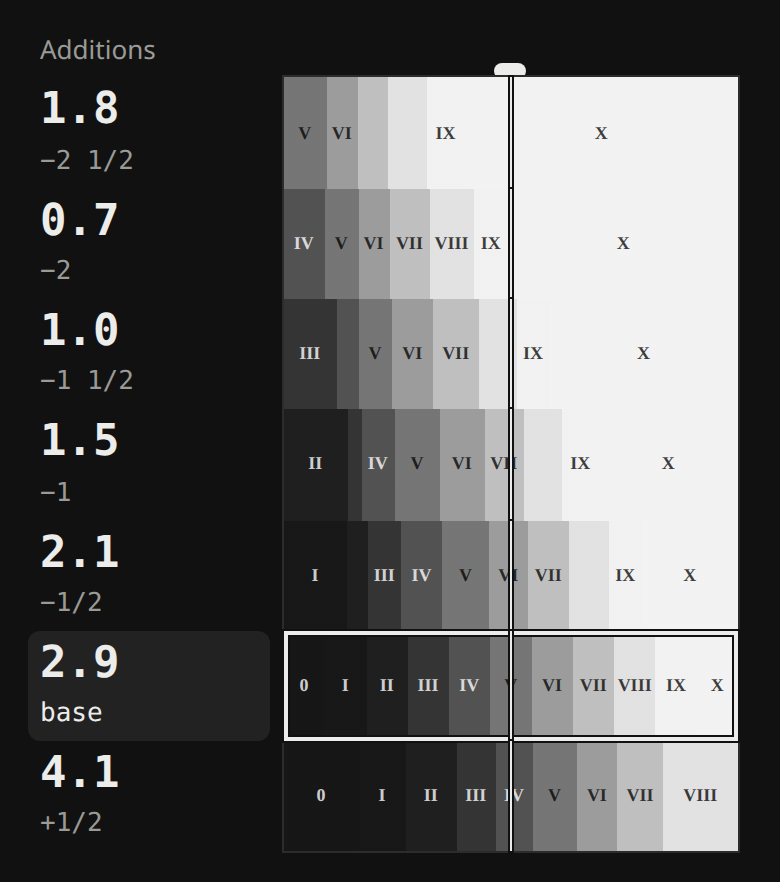
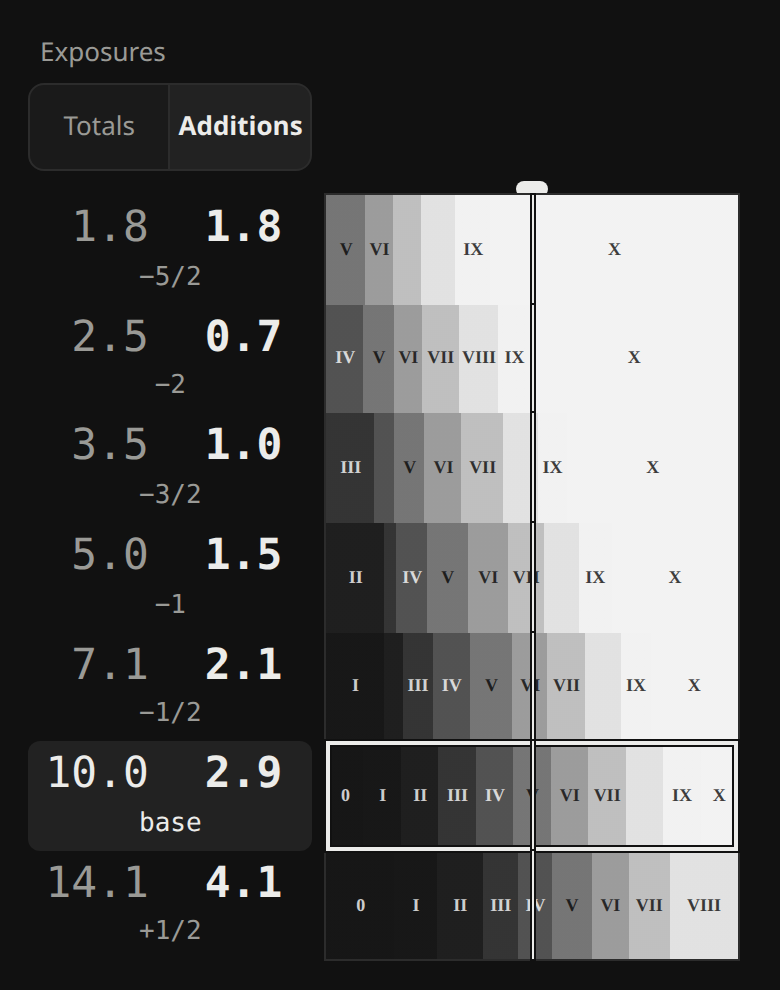
README and figures for the two columns

diff --git a/README.md b/README.md
@@ -18,7 +18,7 @@ A tool for planning f/stop test strips in the darkroom, and for timing them: by 
 Every patch has a strip of tones beside its figure. Each strip shows what that patch prints as, in the zones of the Zone System, and the strips abut, so a tone in the picture can be followed straight up and down the map from patch to patch. Each paper has its own curves, and the filter changes how far apart the patches land, so both are chosen under the map. A second filter can be laid under the first, to see whether a change of contrast would do what more exposure would not. This is for the age-old question, *"should I change the exposure, or is it the contrast?"*
 
 ## Quickstart
-Open https://binflush.github.io/striptest/, type in your base time, and pick the step size and the number of patches. The map gives the seconds for every patch: what each adds to the one before, the way a strip is covered. Press **Run in Darkroom Mode** at the foot of the screen, then **Start**, and the page counts you in and sounds each patch. Tick **Use a metronome instead** and it gives you a tempo and the counts instead. The section **The website** below goes through the rest.
+Open https://binflush.github.io/striptest/, type in your base time, and pick the step size and the number of patches. The map gives the seconds for every patch, what it has had in all and what it adds. Press **Run in Darkroom Mode** at the foot of the screen, then **Start**, and the page counts you in and sounds each patch. Tick **Use a metronome instead** and it gives you a tempo and the counts instead. The section **The website** below goes through the rest.
 
 ## The website
 The website lives at https://binflush.github.io/striptest/. It does the same job as the Python script this started as, and a good deal more, and it does it in your browser, so it also works on the phone in your pocket. Everything is calculated on your own device, and nothing is sent anywhere.
@@ -28,11 +28,11 @@ The easiest way to explain it is to go through a printing session.
 ### The plan
 Let's say we have a fresh negative in the enlarger and our best guess is that it needs somewhere around 10 seconds. We want a test strip of 7 patches in 1/2 stop steps around that guess. So we type 10 into **Base, seconds**, choose 1/2 under **Step, stops** and 7 under **Patches**. These happen to be the defaults, so in this case we just open the page:
 
-<p align="center"><img src="figures/web-plan.png" width="300" align="top" alt="The page as it opens: base 10 seconds, 1/2 stop steps, 7 patches, and the map underneath with the seconds every patch adds"> <img src="figures/web-base.png" width="300" align="top" alt="The sixth patch tapped: the tile and the box have moved to it, and the other patches are drawn against it"></p>
+<p align="center"><img src="figures/web-plan.png" width="300" align="top" alt="The page as it opens: base 10 seconds, 1/2 stop steps, 7 patches, and the map underneath with what every patch has had in all and what it adds"> <img src="figures/web-base.png" width="300" align="top" alt="The sixth patch tapped: the tile and the box have moved to it, and the other patches are drawn against it"></p>
 
-The map has one row for each patch. On the left, large, are the seconds each patch adds to the one before — 3.5 for the first, then 1.5, 2.1, 2.9 and so on — the way a strip is exposed with a card: give the whole strip 3.5 seconds, cover the first patch, give the rest 1.5 more, cover the next, and so on. Under them is where the patch sits in stops, from a stop and a half below the base to a stop and a half above. The base is the patch we believe in, marked with a tile round its figure and a box round its strip. It starts on the middle patch, so the others bracket it; tapping any patch, its figure or its strip, makes that one the base instead, and the others are drawn against it. On the first patch the strip only goes up from there.
+The map has one row for each patch, with two figures side by side. On the left is what the patch has had in all, 3.5, 5.0, 7.1, 10.0 and so on up to 28.3, which is how a strip is read afterwards: the patch that looks right is printed at its total. On the right is what the patch adds to the one before — 3.5 for the first, then 1.5, 2.1, 2.9 and so on — the way a strip is exposed with a card: give the whole strip 3.5 seconds, cover the first patch, give the rest 1.5 more, cover the next, and so on. Under them is where the patch sits in stops, from a stop and a half below the base to a stop and a half above. The base is the patch we believe in, marked with a tile round its figure and a box round its strip. It starts on the middle patch, so the others bracket it; tapping any patch, its figure or its strip, makes that one the base instead, and the others are drawn against it. On the first patch the strip only goes up from there.
 
-Those who expose every patch on its own instead, in a holder with a window, choose **Totals** under **Exposures** in Configuration, and each figure becomes what the patch has had in all: 3.5, 5.0, 7.1, 10.0 and so on up to 28.3, with the heading over them saying so. That is also how a strip is read afterwards: the patch that looks right is printed at its total. With a timer, either figure is all there is to it. The choice is also what a run in the darkroom gives each patch; more on that below.
+The switch over the figures, **Totals** or **Additions**, says which of the two a run in the darkroom gives each patch, and that column is in ink: totals for a strip exposed patch by patch in a holder with a window, additions for a strip covered as it goes. With a timer, either figure is all there is to it; more on the run below.
 
 ### Reading the map
 The strips are a rough simulation of what the patches are going to look like, in the zones of the Zone System: 0 is full black, V is middle grey and X is paper white. The base patch's strip is simply the scale from 0 to X, and every other strip is that same scale after the patch's exposure. A place across the map is one part of the picture. So we pick a tone in the base row, say a highlight in Zone VIII, and look straight up and down: the zone we find at that same place in another row is what that highlight prints as in that patch. Here it is a IX one patch lighter and paper white beyond that; one patch darker it is a VII, then a VI, and a V on the last patch.
@@ -59,16 +59,16 @@ Every row now has a second strip under its first. It is the same patch, exposed 
 The two filters are lined up by the paper speeds in Ilford's data sheets. Multigrade filters are speed matched: 00 to 3 need the same exposure, and 4 and 5 need more — a whole stop on Multigrade IV and on Art 300, about an eighth of one on FB Classic and the current RC Deluxe, if the sheets are to be believed. With other filters, a colour head, or filters that have faded over the years this is going to be off, so the same goes as before: the strips are there to build intuition.
 
 ### Configuration
-Under the fields, **Configuration** holds what belongs to the way of timing chosen. For sound cues that is the **count-in**, the seconds the page waits before the lamp goes on: three is the least, because it counts three in, and a longer one simply waits before counting them — make it as long as you need to get a hand to the switch. **Exposures** is the choice above between additions and totals: it says what the map shows and what a run gives each patch. **Stop between exposures** is described in the next section. On a wide screen Configuration stands open, in a rail beside the map.
+Under the fields, **Configuration** holds what belongs to the way of timing chosen. For sound cues that is the **count-in**, the seconds the page waits before the lamp goes on: three is the least, because it counts three in, and a longer one simply waits before counting them — make it as long as you need to get a hand to the switch. **Stop between exposures** is described in the next section. On a wide screen Configuration stands open, in a rail beside the map.
 
-<p align="center"><img src="figures/web-configuration.png" width="300" align="top" alt="Configuration open: the count-in, Exposures as Additions or Totals, and Stop between exposures"> <img src="figures/web-totals.png" width="300" align="top" alt="With Totals chosen the figures are what each patch has had in all: 3.5, 5.0, 7.1, 10.0 and so on"></p>
+<p align="center"><img src="figures/web-configuration.png" width="300" align="top" alt="Configuration open: the count-in and Stop between exposures"> <img src="figures/web-totals.png" width="300" align="top" alt="Totals chosen: the totals column is the one in ink, and a run gives each patch its whole exposure"></p>
 
 ### At the enlarger
 Everything so far happens with the lights on. When they go out the phone is the wrong shape entirely: a white page is a fog risk, the browser's bars are in the way, and the screen turns itself off halfway through a strip. The button at the foot of the screen, **Run in Darkroom Mode**, deals with all three. It fills the screen with the plan in large red type on black, asks the phone to stay awake, and shows nothing that can be set. **Close**, or Escape, brings the page back.
 
 <p align="center"><img src="figures/web-darkroom.png" width="300" align="top" alt="The darkroom view: the plan in red on black, a bar for every wait, and Start, Start dark and Close"> <img src="figures/web-resume.png" width="300" align="top" alt="Part way through a strip run one patch at a time: the first patch done and its bar full, Patch 2 next, and Resume, Reset and Resume dark"></p>
 
-The plan in the view is the map's figures with a bar beside each, as long as that patch's exposure, with one more above them all for the count-in, all to one scale, so that before anything is started the plan is already a picture of how long the strip takes. **Start** runs it, and a run gives every patch exactly the figure beside it, in turn. With **Additions** that is what each patch adds, for a strip covered as it goes: 3.5 seconds, then 1.5, then 2.1, the lamp staying on and the next patch covered at each mark. With **Totals** it is each patch's whole exposure, one after the other, for a strip moved along in a holder at each mark: 3.5, then 5.0, then 7.1. The count-in counts three soft beats, one a second, the last of them a second before the lamp. On the lamp a drone comes in and holds for as long as the exposure runs. Over it a tone climbs, and lands an octave higher exactly on each moment you have to act on, where a short beat falls, louder and an octave above the ones that counted you in: one for each patch, and the last is the lamp off. Then silence, which is how you know it is over. Because the pitch is always climbing towards the next one, a moment never arrives unannounced, and it arrives just as decisively whether the gap was one second or ten. As the run goes, the bar of the wait it is on fills, meeting its end as the beat is heard, and the line about the run and the Stop button fall back, so that the figures stay the brightest thing on the screen.
+The plan in the view is the map's figures with a bar beside each, as long as that patch's exposure, with one more above them all for the count-in, all to one scale, so that before anything is started the plan is already a picture of how long the strip takes. **Start** runs it, and a run gives every patch exactly the figure in ink beside it, in turn. With **Additions** that is what each patch adds, for a strip covered as it goes: 3.5 seconds, then 1.5, then 2.1, the lamp staying on and the next patch covered at each mark. With **Totals** it is each patch's whole exposure, one after the other, for a strip moved along in a holder at each mark: 3.5, then 5.0, then 7.1. The count-in counts three soft beats, one a second, the last of them a second before the lamp. On the lamp a drone comes in and holds for as long as the exposure runs. Over it a tone climbs, and lands an octave higher exactly on each moment you have to act on, where a short beat falls, louder and an octave above the ones that counted you in: one for each patch, and the last is the lamp off. Then silence, which is how you know it is over. Because the pitch is always climbing towards the next one, a moment never arrives unannounced, and it arrives just as decisively whether the gap was one second or ten. As the run goes, the bar of the wait it is on fills, meeting its end as the beat is heard, and the line about the run and the Stop button fall back, so that the figures stay the brightest thing on the screen.
 
 **Start dark** gives the screen up altogether: by ear you need not look at all, and a screen is only a light source. It stays black after the run has finished as well, which is deliberate — a strip ending is the worst possible moment to light the room, with the paper still out. The whole of that black screen is then the one control. A tap starts a run and stops one that is going, and a hold of about three quarters of a second gives the screen back and ends the run with it; it reddens very faintly while you hold, so you can tell the hold has taken. Started the lit way, a press on the button stops the run at once. If the phone rings, or anything else takes the page away mid-run, the sound stops and the view says so: that strip is spoiled, and better to know it.
 
@@ -81,9 +81,9 @@ Tick **Use a metronome instead**, and the page says what to set the metronome to
 
 <p align="center"><img src="figures/web-metronome.png" width="300" align="top" alt="The metronome: set it to 204 and count every 3rd beat, from zero; the map now gives the counts"> <img src="figures/web-skipping.png" width="300" align="top" alt="204 has been skipped, and the page suggests 203 instead, still counting every 3rd beat"></p>
 
-We set the metronome to 204 and count every 3rd beat. The figures are now counts, and each patch is counted from zero: we start the exposure on the count of zero, cover the first patch on the count of 4, start again from zero and cover the next on 1+2/3, then on 2+1/3, on 3+1/3 and so on. A count of 1+2/3 means the second beat after the first counted one. Every patch is a whole number of beats, so a count always starts on a counted beat, though it may end on one between. The counts are chosen to land as close to the f/stop times as a tempo allows — here no patch is more than 0.5% of half a stop off, which is quite a bit better than counting half seconds gave us in the **Background** section — and when a patch is more than a tenth of a step off, the page says so in red beside its stops.
+We set the metronome to 204 and count every 3rd beat. The figures are now counts, and each patch is counted from zero: we start the exposure on the count of zero, cover the first patch on the count of 4, start again from zero and cover the next on 1⅔, then on 2⅓, on 3⅓ and so on. A count of 1⅔ means the second beat after the first counted one. Every patch is a whole number of beats, so a count always starts on a counted beat, though it may end on one between. The counts are chosen to land as close to the f/stop times as a tempo allows — here no patch is more than 0.5% of half a stop off, which is quite a bit better than counting half seconds gave us in the **Background** section — and when a patch is more than a tenth of a step off, the page says so in red beside its stops.
 
-Most metronomes can't do 204. Many have gaps between their tempos, especially the fast ones. So we press **My metronome can't do 204**, and get the next best tempo instead: 203, which a digital metronome has. My old mechanical one has neither, nor the 169, 205 and 119 that come after, but the fifth press lands on 168, which is on its dial, counting every 2nd beat: 5, then 2, 3, 4 and so on, none of them more than 2.9% of a step off. The tempos we have skipped are remembered on the device, so after a few sessions the page knows the metronome and goes straight to what it has. A tempo skipped by mistake is brought back by pressing it in the **Skipping** list, and **Forget all skipped tempos** under Configuration starts over. Configuration also holds the metronome's range, **Slowest** and **Fastest**, and **Count every**, which is normally chosen for you so that the counting pace stays near one a second. Choose **Totals** under **Exposures** and one count runs on from the start of the strip instead: 4, 5+2/3, 8, 11+1/3 and so on.
+Most metronomes can't do 204. Many have gaps between their tempos, especially the fast ones. So we press **My metronome can't do 204**, and get the next best tempo instead: 203, which a digital metronome has. My old mechanical one has neither, nor the 169, 205 and 119 that come after, but the fifth press lands on 168, which is on its dial, counting every 2nd beat: 5, then 2, 3, 4 and so on, none of them more than 2.9% of a step off. The tempos we have skipped are remembered on the device, so after a few sessions the page knows the metronome and goes straight to what it has. A tempo skipped by mistake is brought back by pressing it in the **Skipping** list, and **Forget all skipped tempos** under Configuration starts over. Configuration also holds the metronome's range, **Slowest** and **Fastest**, and **Count every**, which is normally chosen for you so that the counting pace stays near one a second. The totals column keeps one count running from the start of the strip instead, 4, 5⅔, 8, 11⅓ and so on, for those who would rather not start again.
 
 The page can run the metronome too. Press **Run in Darkroom Mode**, then **Start**, and it keeps that tempo for as long as you let it, striking the beat you count an octave above the rest. **Start dark** does the same with the screen black. It is a plain metronome, nothing more: the counting is still yours, and a hardware one does just as well.
 
@@ -139,7 +139,7 @@ Count every 3rd beat
     22+2/3         +1     20.000       20.000       0.0%
     32           +3/2     28.235       28.284      -0.5%
 ```
-Set the metronome to 204, let it accent every third beat if it can, and start counting from zero as the exposure starts: the whole strip gets 4 counts (12 beats), then the first patch is covered and the rest get up to 5+2/3, and so on. The script keeps one count running unless `-c` is given, which starts the count again at every patch, as the page does by default.
+Set the metronome to 204, let it accent every third beat if it can, and start counting from zero as the exposure starts: the whole strip gets 4 counts (12 beats), then the first patch is covered and the rest get up to 5+2/3, and so on. The script keeps one count running unless `-c` is given, which starts the count again at every patch, as the page's additions column does.
 
 ### Usage
 - `-b`, `--base`: Base exposure time in seconds (float). Default is `10`.
